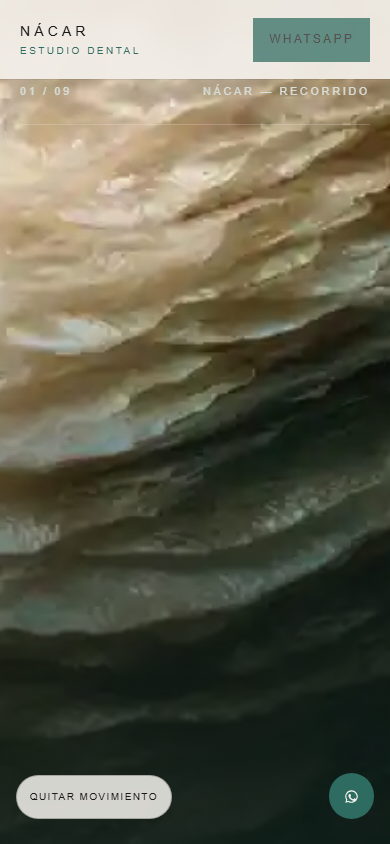
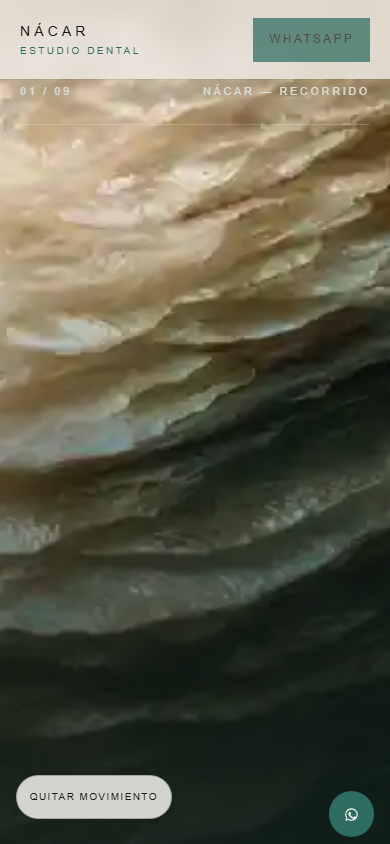
Arregla los punteros de los CTA de capitulo y los mete en la puerta de QA
Regresion propia de la v2.3, encontrada al comprobar en produccion que los CTA
siguieran siendo clicables con el raton: al cambiar autoAlpha por opacity, los
punteros se encendian desde el onUpdate de ScrollTrigger, que deja de dispararse
en cuanto termina el scroll. Con `scrub` la timeline sigue moviendose despues,
asi que la ultima sincronizacion ocurria con el capitulo todavia a opacidad baja
y la tarjeta se quedaba visible con `pointer-events: none`. Medido en vivo:
0 de 9 CTA recibian el clic y 1 tarjeta invisible si lo recibia. El teclado si
funcionaba, por eso la puerta anterior no lo vio.

Ahora `sincronizarPunteros` cuelga del onUpdate de la TIMELINE, que sigue
corriendo mientras el scrub se asienta. Puerta nueva en qa.mjs: para cada uno de
los 9 capitulos se navega a su tramo y se comprueba con elementFromPoint que el
CTA visible recibe el clic y que ninguna tarjeta invisible lo recibe. Local:
9/9 y 0 invisibles clicables.

Changed region(s): [[0.8308, 0.8934, 0.9538, 1.0]]

diff --git a/src/lib/acto.ts b/src/lib/acto.ts
@@ -124,7 +124,21 @@ export function montarActo(animar: boolean): gsap.Context {
         preloadDirection(0, 1)
         const cards = gsap.utils.toArray<HTMLElement>('.film-card', root)
         const count = root.querySelector<HTMLElement>('[data-film-count]')
-        const timeline = gsap.timeline()
+
+        // Lee el opacity EN LÍNEA que escribe la timeline: cero lecturas de
+        // estilo calculado, así que no cuesta layout dentro del scrub. Cuelga
+        // del onUpdate de la TIMELINE, no del de ScrollTrigger: con `scrub` la
+        // timeline sigue moviéndose después del último evento de scroll, y
+        // sincronizarlo con el scroll dejaba el CTA visible con los punteros
+        // apagados.
+        const sincronizarPunteros = (): void => {
+          for (const card of cards) {
+            const quiere = Number(card.style.opacity || '0') > 0.5 ? 'auto' : 'none'
+            if (card.style.pointerEvents !== quiere) card.style.pointerEvents = quiere
+          }
+        }
+
+        const timeline = gsap.timeline({ onUpdate: sincronizarPunteros })
         cards.forEach((card, index) => {
           const from = Number(card.dataset.from)
           const to = Number(card.dataset.to)
@@ -137,15 +151,6 @@ export function montarActo(animar: boolean): gsap.Context {
         })
         timeline.set({}, {}, 1)
 
-        // Lee el opacity EN LÍNEA que escribe la timeline: cero lecturas de
-        // estilo calculado, así que no cuesta layout dentro del scrub.
-        const sincronizarPunteros = (): void => {
-          for (const card of cards) {
-            const quiere = Number(card.style.opacity || '0') > 0.5 ? 'auto' : 'none'
-            if (card.style.pointerEvents !== quiere) card.style.pointerEvents = quiere
-          }
-        }
-
         const trigger = ScrollTrigger.create({
         trigger: root, start: 'top top', end: () => `+=${Math.round(data.pinVh * innerHeight)}`,
         pin: true, pinType: 'transform', pinSpacing: true, scrub: 0.5, anticipatePin: 1, invalidateOnRefresh: true,
@@ -157,7 +162,6 @@ export function montarActo(animar: boolean): gsap.Context {
           preloadDirection(index, direction)
           previousIndex = index
           paint()
-          sincronizarPunteros()
           if (count) count.textContent = String(Math.min(9, Math.floor(progress * 9) + 1)).padStart(2, '0')
         },
         })
